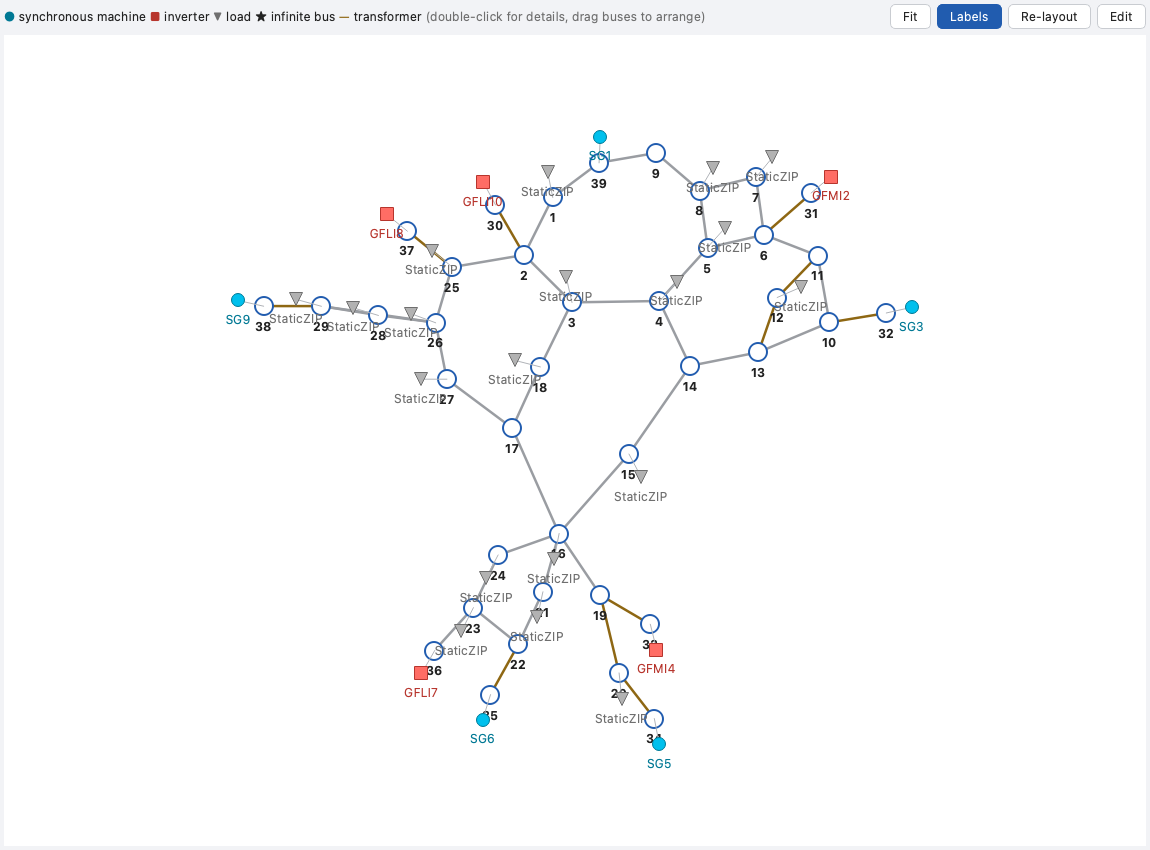
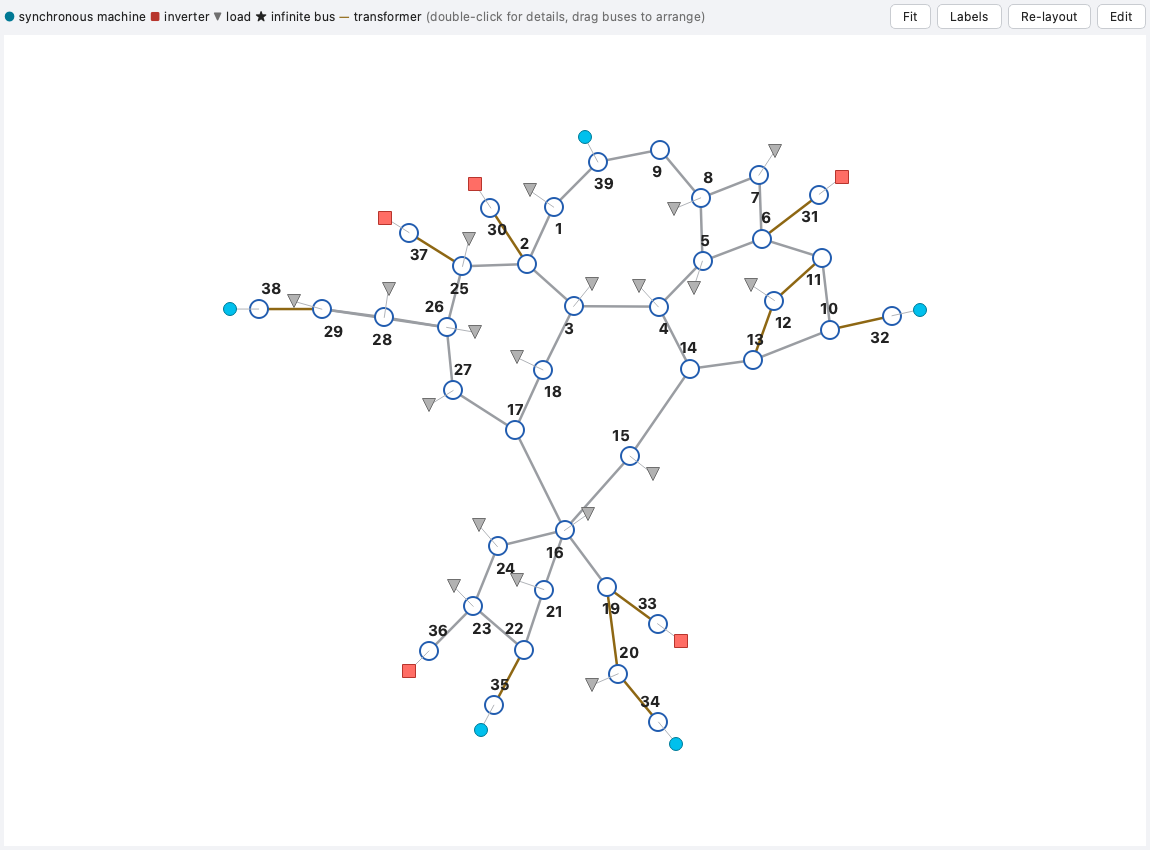
Keep dense one-line diagrams free of overlaps
Device glyphs and labels now go into each bus's locally empty sector
(away from its own neighbors instead of the graph center), the bus number
takes the opposite side shifted along both axes, dense systems start with
device labels hidden (hovering a glyph names it, the Labels toggle brings
them back), the minimum layout spacing grows slightly and very large
diagrams use a smaller number font. The SEA 59-bus system renders without
label collisions.

Changed region(s): [[0.1826, 0.1529, 0.8217, 0.8871], [0.5174, 0.4894, 0.5783, 0.6118], [0.7913, 0.0, 0.8826, 0.0612]]

diff --git a/hermess/gui/topology_tab.py b/hermess/gui/topology_tab.py
@@ -52,7 +52,7 @@ from PySide6.QtWidgets import (
 
 from hermess.gui import device_info, param_meta, theme
 from hermess.gui.disturbance_editor import DisturbanceManagerDialog
-from hermess.gui.graphlayout import spring_layout
+from hermess.gui.graphlayout import outward_directions, spring_layout
 from hermess.gui.info_dialog import InfoDialog
 from hermess.gui.param_form import DeviceFormDialog, SimpleFormDialog
 from hermess.gui.sysdoc import SystemDocument
@@ -356,6 +356,10 @@ class TopologyTab(QWidget):
         self._desc = desc
         self._annotations = {}
         self._pos_by_name = {}
+        if desc is not None:
+            # Dense systems start decluttered; hovering a glyph names it, and
+            # the Labels toggle brings the names back.
+            self._labels_toggle.setChecked(len(desc.devices) <= 20)
         self._render()
         if desc is not None and desc.buses():
             self._view.autoRange(padding=0.15)
@@ -845,34 +849,51 @@ class TopologyTab(QWidget):
             pxMode=True,
         )
 
-        for bus in buses:
-            label = pg.TextItem(anchor=(0.5, -0.4), color=theme.TEXT)
+        # Everything attached to a bus (device glyphs, their labels, the bus
+        # number) goes into the bus's locally empty sector: away from its own
+        # neighbors, not the graph center, so clusters stay clean.
+        edge_indices = [
+            (i, j) for i, j in (
+                (index.get(e.get("bus_i")), index.get(e.get("bus_j")))
+                for e in desc.lines
+            ) if i is not None and j is not None
+        ]
+        outward = outward_directions(self._pos, edge_indices)
+
+        for i, bus in enumerate(buses):
+            # Devices occupy the outward side; the bus number takes the
+            # opposite one, shifted along both axes so neighboring numbers
+            # spread apart instead of meeting halfway.
+            anchor_x = 0.5 + 0.45 * float(np.clip(outward[i][0], -1.0, 1.0))
+            anchor_y = -0.35 if outward[i][1] >= 0 else 1.3
+            label = pg.TextItem(anchor=(anchor_x, anchor_y), color=theme.TEXT)
             self._view.addItem(label)
             self._bus_labels.append(label)
 
-        # Device glyphs, fanned out around their bus away from the graph center.
-        center = self._pos.mean(axis=0)
         per_bus: dict[int, list] = {}
         for entry in desc.devices:
             i = index.get(entry.get("bus"))
             if i is not None:
                 per_bus.setdefault(i, []).append(entry)
         for i, entries in per_bus.items():
-            outward = self._pos[i] - center
-            base = np.arctan2(outward[1], outward[0]) if np.linalg.norm(outward) > 1e-9 else np.pi / 2
+            base = np.arctan2(outward[i][1], outward[i][0])
             for slot, entry in enumerate(entries):
-                angle = base + (slot - (len(entries) - 1) / 2) * 0.7
+                angle = base + (slot - (len(entries) - 1) / 2) * 0.9
                 symbol, color, _caption = _glyph_for(entry.kind)
                 connector = pg.PlotDataItem(pen=pg.mkPen("#B0B3B8", width=1))
+                name = entry.get("idx") or entry.kind
                 scatter = _ClickableScatter(
                     lambda entry=entry: self._device_double_clicked(entry),
                     symbol=symbol,
                     size=13,
                     pen=pg.mkPen(color),
                     brush=pg.mkBrush(pg.mkColor(color).lighter(160)),
+                    hoverable=True,
+                    tip=lambda x, y, data, text=f"{name} — {entry.kind}": text,
                 )
-                name = entry.get("idx") or entry.kind
-                label = pg.TextItem(name, anchor=(0.5, -0.35), color=color)
+                # The glyph's name continues outward, away from the diagram.
+                label_anchor = (0.5, 1.25) if np.sin(angle) >= 0 else (0.5, -0.35)
+                label = pg.TextItem(name, anchor=label_anchor, color=color)
                 label.setVisible(self._labels_toggle.isChecked())
                 for item in (connector, scatter, label):
                     self._view.addItem(item)
@@ -980,12 +1001,15 @@ class TopologyTab(QWidget):
         ).show()
 
     def _update_labels(self) -> None:
+        # Very large diagrams get smaller bus numbers; the text is pixel-sized
+        # while the layout is not, so this is the remaining density lever.
+        size = "9pt" if len(self._bus_labels) > 40 else "11pt"
         for bus, label in zip(self._desc.buses(), self._bus_labels):
             if bus in self._annotations:
                 vmag, vdeg = self._annotations[bus]
                 label.setHtml(
-                    f'<div style="text-align:center"><b>{bus}</b><br>'
+                    f'<div style="text-align:center; font-size:{size}"><b>{bus}</b><br>'
                     f'<span style="font-size:8pt">{vmag:.3f} ∠ {vdeg:.1f}°</span></div>'
                 )
             else:
-                label.setHtml(f"<b>{bus}</b>")
+                label.setHtml(f'<span style="font-size:{size}"><b>{bus}</b></span>')

diff --git a/hermess/gui/graphlayout.py b/hermess/gui/graphlayout.py
@@ -28,6 +28,38 @@ from __future__ import annotations
 import numpy as np
 
 
+def outward_directions(pos: np.ndarray, edges: "list[tuple[int, int]]") -> np.ndarray:
+    """Per-node unit vector into the locally empty sector: away from the
+    node's neighbors, which is where labels and device glyphs fit without
+    landing on lines or other buses. Falls back to the perpendicular of the
+    first edge for nodes whose neighbors cancel out (straight chains), and to
+    straight up for isolated nodes."""
+    n = pos.shape[0]
+    acc = np.zeros((n, 2))
+    first_edge_unit = {}
+    for i, j in edges:
+        span = pos[j] - pos[i]
+        norm = np.linalg.norm(span)
+        if norm < 1e-9:
+            continue
+        unit = span / norm
+        acc[i] += unit
+        acc[j] -= unit
+        first_edge_unit.setdefault(i, unit)
+        first_edge_unit.setdefault(j, -unit)
+    out = np.zeros((n, 2))
+    for i in range(n):
+        norm = np.linalg.norm(acc[i])
+        if norm > 1e-6:
+            out[i] = -acc[i] / norm
+        elif i in first_edge_unit:
+            unit = first_edge_unit[i]
+            out[i] = np.array([-unit[1], unit[0]])  # perpendicular
+        else:
+            out[i] = np.array([0.0, 1.0])
+    return out
+
+
 def spring_layout(
     n: int,
     edges: "list[tuple[int, int]]",
@@ -77,7 +109,7 @@ def spring_layout(
     # whole layout keeps air. Runs in the final (normalized) units and skips
     # the rescale afterwards, so the separation is not squeezed away again.
     # Deterministic (no randomness involved).
-    d_min = 0.65 / np.sqrt(n)
+    d_min = 0.72 / np.sqrt(n)
     with np.errstate(invalid="ignore"):
         for _ in range(150):
             delta = pos[:, None, :] - pos[None, :, :]
